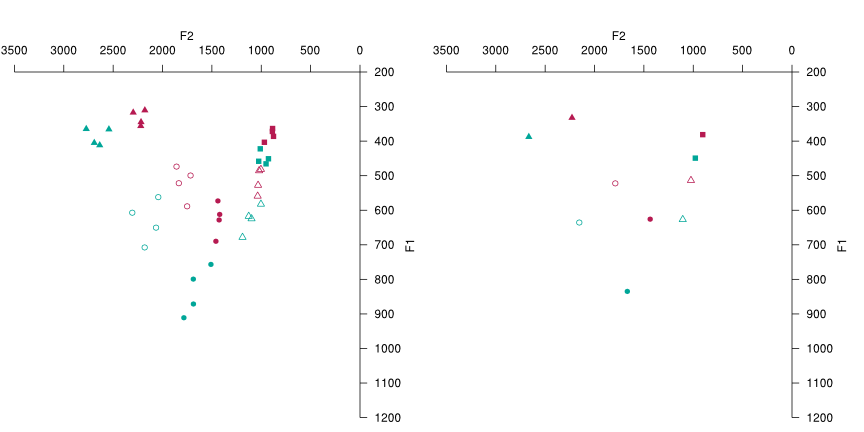
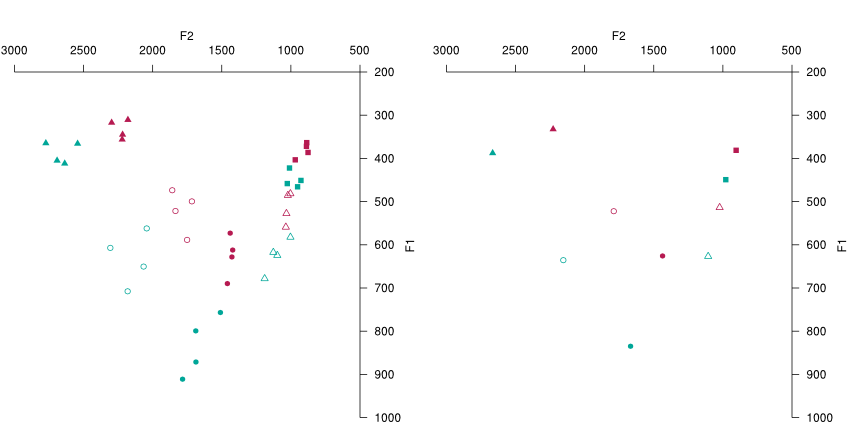
HTML + images: final tweaks before pre-release

diff --git a/index.html b/index.html
@@ -4,7 +4,7 @@
   <meta http-equiv="Content-Type" content="text/html; charset=utf-8" />
   <meta http-equiv="Content-Style-Type" content="text/css" />
   <meta name="generator" content="pandoc" />
-  <meta name="date" content="2015-01-14" />
+  <meta name="date" content="2015-01-15" />
   <title>Normalizing and plotting vowels with phonR 1.0-0</title>
   <style type="text/css">code{white-space: pre;}</style>
   <style type="text/css">
@@ -34,7 +34,7 @@ code > span.er { color: #ff0000; font-weight: bold; }
 <h1 class="title">Normalizing and plotting vowels with phonR 1.0-0</h1>
 <h2 class="author">Daniel R. McCloy</h2>
 <h3 class="author">University of Washington</h3>
-<h3 class="date">2015-01-14</h3>
+<h3 class="date">2015-01-15</h3>
 </div>
 <!--pandoc
 s:
@@ -57,9 +57,8 @@ template: vignette_template.tex
 <h2 id="installation">Installation</h2>
 <p>The phonR package can be downloaded from the <a href="http://cran.r-project.org/package=phonR">Comprehensive R Archive Network</a> or installed through <code>R</code> via <code>install.packages(&quot;phonR&quot;)</code>. The source code is hosted on <a href="https://github.com/drammock/phonR">GitHub</a>, and is licensed under <a href="http://www.gnu.org/licenses/gpl.html">GPL-3</a>. Users wishing to work off the development version can install using <code>devtools::install_github(&quot;drammock/phonR&quot;)</code>. <code>phonR</code> has three dependencies: <code>deldir</code> (for Delaunay triangulations), <code>plotrix</code> (for creating color scales), and <code>splancs</code> (for point-in-polygon functions). Plotting vowels with non-ASCII characters (i.e., most vowel symbols in the IPA) also requires that the user’s computer have a typeface installed that contains glyphs at the necessary codepoints, and that the user specify that typeface when calling the <code>plotVowels</code> function.</p>
 <p>To run the examples in this tutorial yourself, you need to load <code>phonR</code> and the accompanying sample data:</p>
-<pre class="sourceCode r"><code class="sourceCode r"><span class="kw">source</span>(<span class="st">&quot;/home/dan/Documents/academics/tools/phonR/R/phonR.R&quot;</span>)
-<span class="kw">load</span>(<span class="st">&quot;/home/dan/Documents/academics/tools/phonR/data/indoVowels.rda&quot;</span>)
-<span class="co"># library(phonR) data(indoVowels) # provides dataframe &#39;indo&#39;</span></code></pre>
+<pre class="sourceCode r"><code class="sourceCode r"><span class="kw">library</span>(phonR)
+<span class="kw">data</span>(indoVowels)  <span class="co"># provides dataframe &#39;indo&#39;</span></code></pre>
 <h2 id="a-note-about-the-examples">A note about the examples</h2>
 <p>All the examples make use of <code>R</code>’s <code>with()</code> syntax. If you’ve never used <code>with</code>, the short explanation is it allows you to access the columns of a dataframe without the <code>$</code> operator. So instead of <code>plotVowels(indo$f1, indo$f2)</code> you can say <code>with(indo, plotVowels(f1, f2))</code>. It functions similar to providing a <code>data</code> argument in functions like <code>lm</code> or older versions of <code>plotVowels</code>.</p>
 <h2 id="changes-from-previous-versions">Changes from previous versions</h2>
@@ -170,9 +169,11 @@ cdistcol &lt;-<span class="st"> </span>plotrix::<span class="kw">color.scale</sp
 <p>As we have seen, the default for <code>plotVowels</code> is to plot each individual vowel token, potentially colored and styled in different ways. But sometimes a summary view is helpful to look at group differences. This is easily achieved by turning off the <code>plot.tokens</code> argument (which defaults to <code>TRUE</code>) and turning on the <code>plot.means</code> argument (which defaults to <code>FALSE</code>). Now that we’re calculating means for each vowel, the <code>vowel</code> and <code>group</code> arguments become important. These next two plots show the mean F1 and F2 values for each vowel, but with different grouping factors: on the left, the mean for each vowel is calculated within-speaker; on the right, the means are calculated within gender groups.</p>
 <pre class="sourceCode r"><code class="sourceCode r"><span class="kw">par</span>(<span class="dt">mfrow =</span> <span class="kw">c</span>(<span class="dv">1</span>, <span class="dv">2</span>))
 <span class="kw">with</span>(indo, <span class="kw">plotVowels</span>(f1, f2, vowel, <span class="dt">group =</span> subj, <span class="dt">plot.tokens =</span> <span class="ot">FALSE</span>, <span class="dt">plot.means =</span> <span class="ot">TRUE</span>, 
-    <span class="dt">var.col.by =</span> gender, <span class="dt">var.style.by =</span> vowel, <span class="dt">pretty =</span> <span class="ot">TRUE</span>))
+    <span class="dt">var.col.by =</span> gender, <span class="dt">var.style.by =</span> vowel, <span class="dt">pretty =</span> <span class="ot">TRUE</span>, <span class="dt">xlim =</span> <span class="kw">c</span>(<span class="dv">3000</span>, <span class="dv">500</span>), <span class="dt">ylim =</span> <span class="kw">c</span>(<span class="dv">1000</span>, 
+        <span class="dv">250</span>)))
 <span class="kw">with</span>(indo, <span class="kw">plotVowels</span>(f1, f2, vowel, <span class="dt">group =</span> gender, <span class="dt">plot.tokens =</span> <span class="ot">FALSE</span>, <span class="dt">plot.means =</span> <span class="ot">TRUE</span>, 
-    <span class="dt">var.col.by =</span> gender, <span class="dt">var.style.by =</span> vowel, <span class="dt">pretty =</span> <span class="ot">TRUE</span>))</code></pre>
+    <span class="dt">var.col.by =</span> gender, <span class="dt">var.style.by =</span> vowel, <span class="dt">pretty =</span> <span class="ot">TRUE</span>, <span class="dt">xlim =</span> <span class="kw">c</span>(<span class="dv">3000</span>, <span class="dv">500</span>), <span class="dt">ylim =</span> <span class="kw">c</span>(<span class="dv">1000</span>, 
+        <span class="dv">250</span>)))</code></pre>
 <p><img src="images/plot-means-1.png" title="Mean F1 and F2 values for each vowel, plotted with different grouping factors" alt="Mean F1 and F2 values for each vowel, plotted with different grouping factors" style="display: block; margin: auto;" /></p>
 <h2 id="plotting-with-ipa-glyphs">Plotting with IPA glyphs</h2>
 <p><code>plotVowels</code> allows you to replace the plotting symbols with arbitrary text, including non-ASCII characters such as IPA glyphs. This can be done separately for the vowel tokens and vowel means using the <code>pch.tokens</code> and <code>pch.means</code> arguments; we can also control the size separately too using <code>cex.tokens</code> and <code>cex.means</code>. The vowels of Standard Indonesian in the example data are all transcribed with ASCII characters, so to demonstrate the IPA symbols we’ll add some unnecessary extra symbols and diacritics to plot the means. While we’re at it, we’ll make the tokens smaller and semi-transparent and specify the font family (you can use any typeface that has the glyphs you need and is installed on your system).</p>
@@ -259,12 +260,13 @@ for (speed in <span class="kw">c</span>(<span class="ot">TRUE</span>, <span clas
 <p>In most cases, legends can be added automatically to plots created using <code>plotVowels</code> by adding a legend location keyword such as <code>legend.kwd=&quot;bottomleft&quot;</code> (see the documentation of <code>graphics::legend</code> for explanation of the keywords). Great care has been taken to ensure that the legends display all (and only) the necessary color and style contrasts in the plot. Here we repeat four of the plots seen above, with legends added:</p>
 <pre class="sourceCode r"><code class="sourceCode r"><span class="kw">par</span>(<span class="dt">mfrow =</span> <span class="kw">c</span>(<span class="dv">2</span>, <span class="dv">2</span>))
 <span class="kw">with</span>(indo, <span class="kw">plotVowels</span>(f1, f2, <span class="dt">var.style.by =</span> gender, <span class="dt">var.col.by =</span> subj, <span class="dt">pretty =</span> <span class="ot">TRUE</span>, <span class="dt">legend.kwd =</span> <span class="st">&quot;bottomright&quot;</span>))
-<span class="kw">with</span>(indo, <span class="kw">plotVowels</span>(f1, f2, vowel, <span class="dt">plot.tokens =</span> <span class="ot">TRUE</span>, <span class="dt">pch.tokens =</span> vowel, <span class="dt">cex.tokens =</span> <span class="fl">0.8</span>, 
+<span class="kw">with</span>(indo, <span class="kw">plotVowels</span>(f1, f2, vowel, <span class="dt">plot.tokens =</span> <span class="ot">TRUE</span>, <span class="dt">pch.tokens =</span> vowel, <span class="dt">cex.tokens =</span> <span class="fl">1.2</span>, 
     <span class="dt">alpha.tokens =</span> <span class="fl">0.4</span>, <span class="dt">plot.means =</span> <span class="ot">TRUE</span>, <span class="dt">pch.means =</span> unicodevowel, <span class="dt">cex.means =</span> <span class="dv">4</span>, <span class="dt">var.col.by =</span> unicodevowel, 
     <span class="dt">family =</span> <span class="st">&quot;Charis SIL&quot;</span>, <span class="dt">pretty =</span> <span class="ot">TRUE</span>, <span class="dt">legend.kwd =</span> <span class="st">&quot;bottomright&quot;</span>))
-<span class="kw">with</span>(indo, <span class="kw">plotVowels</span>(f1, f2, vowel, <span class="dt">group =</span> gender, <span class="dt">pch.tokens =</span> vowel, <span class="dt">alpha.tokens =</span> <span class="fl">0.3</span>, 
-    <span class="dt">plot.means =</span> <span class="ot">TRUE</span>, <span class="dt">pch.means =</span> vowel, <span class="dt">cex.means =</span> <span class="dv">2</span>, <span class="dt">var.col.by =</span> vowel, <span class="dt">var.style.by =</span> gender, 
-    <span class="dt">hull.fill =</span> <span class="ot">TRUE</span>, <span class="dt">hull.line =</span> <span class="ot">TRUE</span>, <span class="dt">fill.opacity =</span> <span class="fl">0.1</span>, <span class="dt">pretty =</span> <span class="ot">TRUE</span>, <span class="dt">legend.kwd =</span> <span class="st">&quot;bottomright&quot;</span>))
+<span class="kw">with</span>(indo, <span class="kw">plotVowels</span>(f1, f2, vowel, <span class="dt">group =</span> gender, <span class="dt">pch.tokens =</span> vowel, <span class="dt">cex.tokens =</span> <span class="fl">1.2</span>, 
+    <span class="dt">alpha.tokens =</span> <span class="fl">0.3</span>, <span class="dt">plot.means =</span> <span class="ot">TRUE</span>, <span class="dt">pch.means =</span> vowel, <span class="dt">cex.means =</span> <span class="dv">2</span>, <span class="dt">var.col.by =</span> vowel, 
+    <span class="dt">var.style.by =</span> gender, <span class="dt">hull.fill =</span> <span class="ot">TRUE</span>, <span class="dt">hull.line =</span> <span class="ot">TRUE</span>, <span class="dt">fill.opacity =</span> <span class="fl">0.1</span>, <span class="dt">pretty =</span> <span class="ot">TRUE</span>, 
+    <span class="dt">legend.kwd =</span> <span class="st">&quot;bottomright&quot;</span>))
 <span class="kw">with</span>(indo, <span class="kw">plotVowels</span>(f1, f2, vowel, <span class="dt">group =</span> subj, <span class="dt">plot.tokens =</span> <span class="ot">FALSE</span>, <span class="dt">plot.means =</span> <span class="ot">TRUE</span>, 
     <span class="dt">pch.means =</span> vowel, <span class="dt">cex.means =</span> <span class="dv">2</span>, <span class="dt">var.col.by =</span> vowel, <span class="dt">var.style.by =</span> subj, <span class="dt">ellipse.line =</span> <span class="ot">TRUE</span>, 
     <span class="dt">ellipse.fill =</span> <span class="ot">TRUE</span>, <span class="dt">fill.opacity =</span> <span class="fl">0.1</span>, <span class="dt">pretty =</span> <span class="ot">TRUE</span>, <span class="dt">legend.kwd =</span> <span class="st">&quot;bottomright&quot;</span>))</code></pre>
@@ -300,7 +302,7 @@ indo &lt;-<span class="st"> </span><span class="kw">within</span>(indo, {
 <p>Gone are the days when the only unicode-compliant option for IPA transcription was the Doulos SIL typeface. The plots above use <a href="http://scripts.sil.org/CharisSILfont/">Charis SIL</a>, which (unlike Doulos SIL) has bold, italic, and bold-italic faces in addition to regular. In my experience Charis SIL aligns diacritics better than any of its competitors, but the following three fonts also have sufficiently respectable coverage of IPA codepoints to be usable in most documents concerning phonetics or phonology: <a href="http://mplus-fonts.sourceforge.jp/">M+</a>, <a href="http://www.stixfonts.org/">STIX</a>, and <a href="http://www.linuxlibertine.org/">Linux Libertine O</a> (despite its name, Linux Libertine O will work on any operating system, not just Linux). All of these typefaces are free; M+ comes in an impressive range of weights and has both proportional and monospaced variants, and is the best sans-serif typeface I have found for rendering IPA glyphs.</p>
 <h2 id="working-with-unicode-ipa-glyphs-in-microsoft-windows">Working with Unicode IPA glyphs in Microsoft Windows</h2>
 <p>Perhaps the easiest way to have a pleasant experience working with unicode-compliant representations of IPA glyphs is to use a computer running the Linux operating system: <code>R</code> on Linux defaults to a UTF-8 locale, which means that IPA glyphs can be displayed in the <code>R</code> command console (both in commands you type/paste in, and in <code>R</code>’s output) and used in plots without issue.</p>
-<p>If you use Windows, here are some key pieces of information that will allow you to work with Unicode IPA glyphs in <code>R</code> more easily. First: Microsoft Excel does not output UTF-8 encoded text files. If you try to save a spreadsheet from Excel as plain CSV, all the non-ASCII glyphs will be corrupted (i.e., each single non-ASCII codepoint will be interpreted as multiple ASCII codepoints). If you export from Excel as “Unicode text”, what you get is a CSV encoded in “UCS2-LE” format (AKA, “UTF-16 with BOM”). To open this in <code>R</code> you must either specify <code>read.csv(..., encoding=&quot;UCS-2&quot;)</code>, or convert it to UTF-8 prior to importing into <code>R</code>, then specify <code>read.csv(..., encoding=&quot;UTF-8&quot;)</code>. Converting between encoding formats can be accomplished with the free text editor Notepad++.</p>
+<p>If you use Windows, here are some key pieces of information that will allow you to work with Unicode IPA glyphs in <code>R</code> more easily. First: Microsoft Excel does not output UTF-8 encoded text files. If you try to save a spreadsheet from Excel as plain CSV, all the non-ASCII glyphs will be corrupted (i.e., each single non-ASCII codepoint will be interpreted as multiple ASCII codepoints). If you export from Excel as “Unicode text”, what you get is a CSV encoded in “UCS2-LE” format (AKA, “UTF-16 with BOM”). To open this in <code>R</code> you must either specify <code>read.csv(..., encoding=&quot;UCS-2&quot;)</code>, or convert it to UTF-8 prior to importing into <code>R</code>, then specify <code>read.csv(..., encoding=&quot;UTF-8&quot;)</code>. Converting between encoding formats can be accomplished with the free text editor <a href="http://notepad-plus-plus.org/">Notepad++</a>.</p>
 <p>In either case, the non-ASCII characters will be rendered as “escaped” characters when the resulting dataframe is displayed in the <code>R</code> console (e.g., when using <code>head()</code> you will see <code>\u0259</code> instead of <code>ə</code>). These escaped characters will <em>usually</em> display properly when plotted, as long as a suitable typeface is specified via the graphical parameter <code>family</code>. However, specifying fonts in <code>R</code> is more complicated under Windows than on other operating systems, as font names cannot be passed directly to <code>family</code> as a character string. Instead, you must first register the font using <code>windowsFonts(myCustomFontName=windowsFont(&quot;Charis SIL&quot;))</code>, and then reference the font as <code>family=&quot;myCustomFontName&quot;</code> (you may of course substitute anything you like for <code>myCustomFontName</code> as long as there are no spaces in the name, and substitute your desired font’s name for <code>&quot;Charis SIL&quot;</code>).</p>
 <p>Finally, do not bother trying to get non-ASCII glyphs to render in the <code>R</code> console by changing <code>R</code>’s locale parameter to UTF-8 when running <code>R</code> on Windows. It will not work.</p>
 <h1 id="acknowledgments">Acknowledgments</h1>
